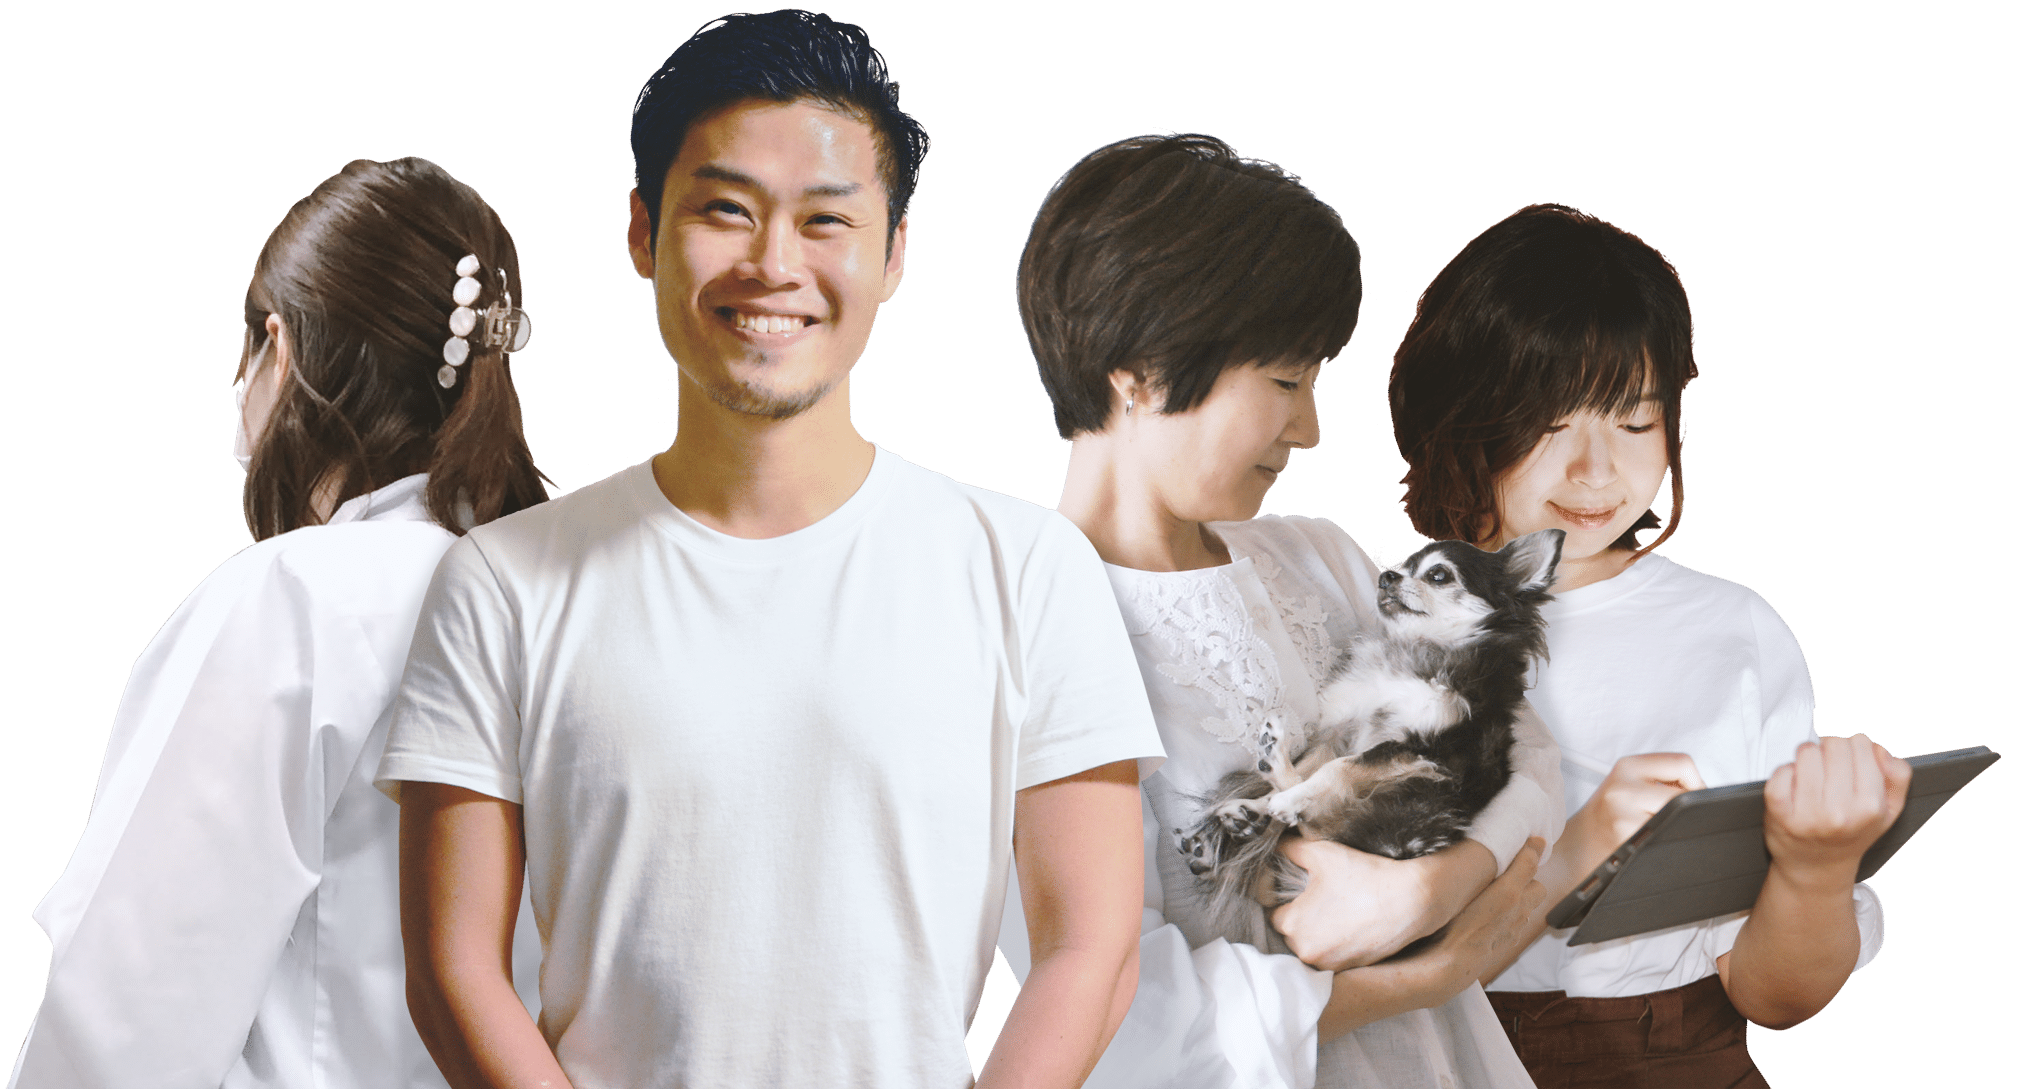
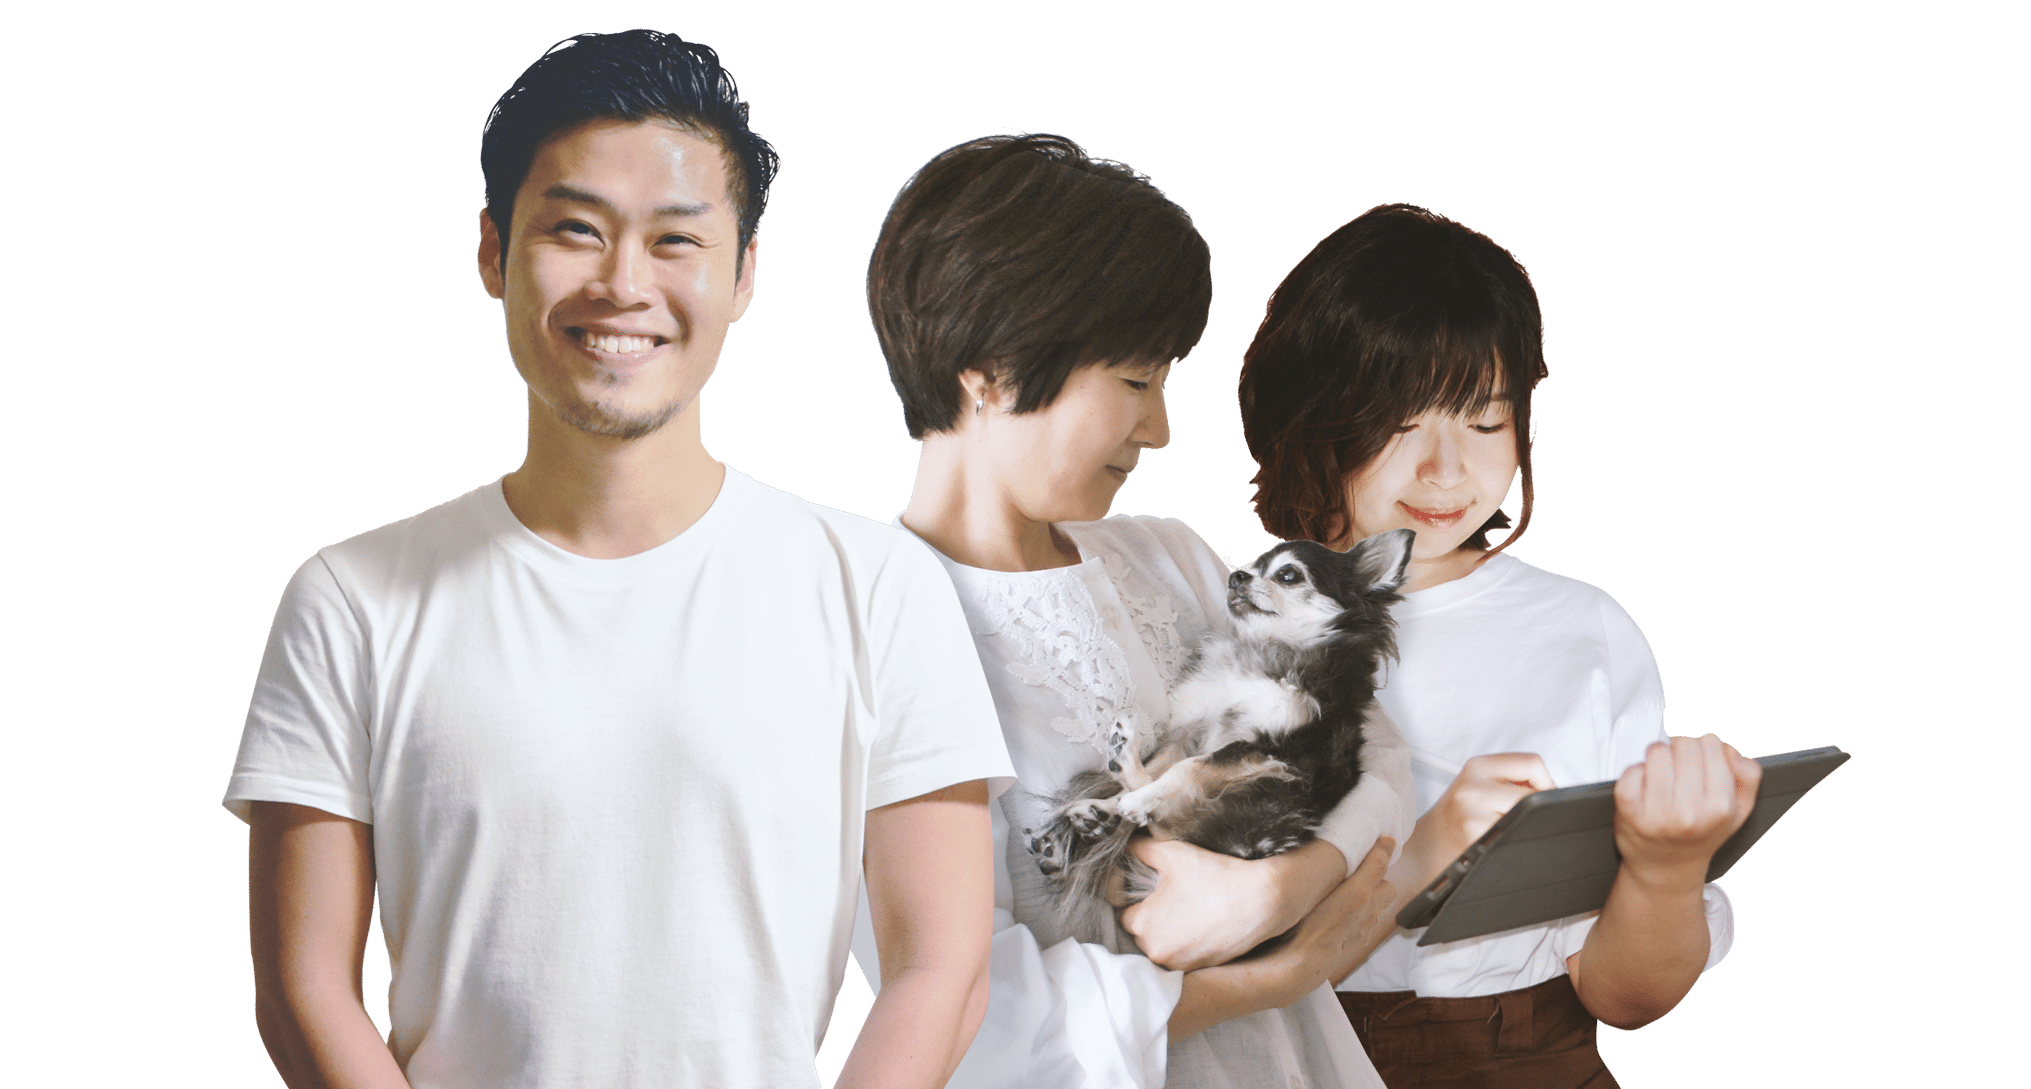
.

diff --git a/member/index.html b/member/index.html
@@ -1,1 +1,1 @@
-<!doctype html><html lang="jp"><head><meta charset="UTF-8"><meta name="viewport" content="width=device-width,user-scalable=yes,initial-scale=1,minimum-scale=1"><meta name="description" content="ペットのDNAサンプル保管、先行予約始まりました。世界初、ペットロス解決の新たな選択肢。性格、見た目、全ての情報の根源であるDNAを植物の種に導入。唯一無二、世界で1つの種が届きます。「また、可愛がれる」そんな体験をご提供。"><link rel="stylesheet" href="https://use.typekit.net/kcf7zam.css"><title>Grief care Tech株式会社</title><link rel="icon" href="../favicon.ico"><link href="../css/app.css" rel="stylesheet"></head><body><div class="navbar-container"><div class="custom-wrapper pure-g" id="navbar"><div class="pure-u-1 pure-u-lg-1-4"><div class="pure-menu"><a class="pure-menu-heading custom-brand" href="../index.html">Greif care Tech</a><a class="custom-toggle" id="toggle" href="#"><s class="bar"></s><s class="bar"></s></a></div></div><div class="pure-u-1 pure-u-lg-3-4"><div class="pure-menu pure-menu-horizontal custom-menu-3 custom-can-transform"><ul class="pure-menu-list"><li class="pure-menu-item"><a class="pure-menu-link" href="/company/index.html">会社情報</a></li><li class="pure-menu-item"><a class="pure-menu-link" href="/service/index.html">サービス</a></li><li class="pure-menu-item"><a class="pure-menu-link" href="/member/index.html">メンバー</a></li><li class="pure-menu-item"><a class="pure-menu-link" href="https://forms.gle/oxt3NvuymeTbCXJP6" target="_blank">お問い合わせ</a></li></ul></div></div></div></div><div class="fake-nav"></div><main class="child"><div class="wrap kv-child"><h1>メンバー</h1><div class="kv-img-wrap"><div class="kv-img kv-member"></div></div></div><div class="stripe"></div><div class="member-item pure-g"><div class="member-image pure-u-1 pure-u-lg-2-5"><img src="../images/content/member-ik.png" alt=""></div><div class="member-text pure-u-1 pure-u-lg-3-5"><p class="member-position">代表取締役</p><p class="member-name">池田賢一</p><p class="member-description">立教大学観光学部卒業後に旅行系ベンチャー企業を設立。<br>一部上場企業に事業売却。<br>売却先で2年間勤務後、ベンチャーキャピタルに転職。<br>2020年8月27日、30歳の節目で株式会社Grief care Techを設立。<br><br>過去の原体験と供養方法への違和感、<br>そして偶然の会話から、<br>Yuishu事業アイデアに辿り着く。</p></div></div><div class="member-item pure-g"><div class="member-image pure-u-1 pure-u-lg-2-5"><img src="../images/content/member-ne.png" alt=""></div><div class="member-text pure-u-1 pure-u-lg-3-5"><p class="member-position">プロダクトデザイナー</p><p class="member-name">中井英理</p><p class="member-description">大手自動車メーカーでのデザイナー、専門学校講師の経験を経て、<br>偶然かつ必然の出会いを経てYuishu事業に参画。<br>老犬チワワの介護と在宅勤務の両立を目指す。<br>メンバーで最もペルソナに近い立場。<br>2020年8月に17歳を看取り、いまはてんかん持ちの16歳と暮らす。</p></div></div><div class="member-item pure-g"><div class="member-image pure-u-1 pure-u-lg-2-5"><img src="../images/content/member-ts.png" alt=""></div><div class="member-text pure-u-1 pure-u-lg-3-5"><p class="member-position">技術アドバイザー</p><p class="member-name">遺伝子お姉さん</p><p class="member-description">東京農工大学大学院を修了。<br>動物用医薬品の研究開発職に従事。ペットや産業用動物の薬の開発に携わりながら、ペット産業について学ぶ。<br>ヒト用の医薬品の製造開発を行っている会社の研究職に転職。<br>シンガポールで子会社の立ち上げに携わる。<br>帰国後、新規事業立ち上げに携わり、その勉強過程でYuishu事業アイデアと出会う。</p></div></div><div class="member-item pure-g"><div class="member-image pure-u-1 pure-u-lg-2-5"><img src="../images/content/member-tm.png" alt=""></div><div class="member-text pure-u-1 pure-u-lg-3-5"><p class="member-position">グラフィックデザイナー</p><p class="member-name">てい</p><p class="member-description">2013年に中国から来日。<br>デザイン専門学校卒業後、Web事業会社でUIデザイン業務に従事。<br>幼い頃から猫と過ごしてきたため、Yuishu事業に興味を持つ。<br>今でも中国の実家にガンと闘っている15歳のねこがおり、<br>日本の我が家にも現在FIPと闘っている1歳未満の猫がいる。</p></div></div></main><footer><div class="pure-g bottom-info info-div"><div class="pure-u-1 pure-u-lg-1-2"><ul><li><a href="/company/index.html">会社情報</a></li><li><a href="/service/index.html">サービス</a></li><li><a href="/member/index.html">メンバー</a></li><li><a class="before-icon-new-windows" href="https://forms.gle/oxt3NvuymeTbCXJP6" target="_blank">お問い合わせ</a></li></ul></div><div class="pure-u-1 pure-u-lg-1-2"><ul><li><p class="title">オフィス</p><p>〒101-0052<br>東京都千代田区神田小川町3丁目28番5号 axle御茶ノ水 2階</p><br><p>JR御茶ノ水駅　御茶ノ水橋口より徒歩8分<br>メトロ千代田線「新御茶ノ水駅」B3b口より徒歩3分<br>メトロ丸の内線「小川町駅」B3b口より徒歩3分<br>メトロ半蔵門線・都営三田線「神保町駅」A5口より徒歩7分</p></li><li><p class="title">郵送宛先</p><p>〒141-0031<br>東京都品川区西五反田5丁目26番3号スマータス不動前409<br>Grief care Tech株式会社</p></li></ul></div></div><div class="bottom-copy">© Greif care Tech Inc.</div></footer><script src="../js/app.js"></script></body></html>
+<!doctype html><html lang="jp"><head><meta charset="UTF-8"><meta name="viewport" content="width=device-width,user-scalable=yes,initial-scale=1,minimum-scale=1"><meta name="description" content="ペットのDNAサンプル保管、先行予約始まりました。世界初、ペットロス解決の新たな選択肢。性格、見た目、全ての情報の根源であるDNAを植物の種に導入。唯一無二、世界で1つの種が届きます。「また、可愛がれる」そんな体験をご提供。"><link rel="stylesheet" href="https://use.typekit.net/kcf7zam.css"><title>Grief care Tech株式会社</title><link rel="icon" href="../favicon.ico"><link href="../css/app.css" rel="stylesheet"></head><body><div class="navbar-container"><div class="custom-wrapper pure-g" id="navbar"><div class="pure-u-1 pure-u-lg-1-4"><div class="pure-menu"><a class="pure-menu-heading custom-brand" href="../index.html">Greif care Tech</a><a class="custom-toggle" id="toggle" href="#"><s class="bar"></s><s class="bar"></s></a></div></div><div class="pure-u-1 pure-u-lg-3-4"><div class="pure-menu pure-menu-horizontal custom-menu-3 custom-can-transform"><ul class="pure-menu-list"><li class="pure-menu-item"><a class="pure-menu-link" href="/company/index.html">会社情報</a></li><li class="pure-menu-item"><a class="pure-menu-link" href="/service/index.html">サービス</a></li><li class="pure-menu-item"><a class="pure-menu-link" href="/member/index.html">メンバー</a></li><li class="pure-menu-item"><a class="pure-menu-link" href="https://forms.gle/oxt3NvuymeTbCXJP6" target="_blank">お問い合わせ</a></li></ul></div></div></div></div><div class="fake-nav"></div><main class="child"><div class="wrap kv-child"><h1>メンバー</h1><div class="kv-img-wrap"><div class="kv-img kv-member"></div></div></div><div class="stripe"></div><div class="member-item pure-g"><div class="member-image pure-u-1 pure-u-lg-2-5"><img src="../images/content/member-ik.png" alt=""></div><div class="member-text pure-u-1 pure-u-lg-3-5"><p class="member-position">代表取締役</p><p class="member-name">池田賢一</p><p class="member-description">立教大学観光学部卒業後に旅行系ベンチャー企業を設立。<br>一部上場企業に事業売却。<br>売却先で2年間勤務後、ベンチャーキャピタルに転職。<br>2020年8月27日、30歳の節目で株式会社Grief care Techを設立。<br><br>過去の原体験と供養方法への違和感、<br>そして偶然の会話から、<br>Yuishu事業アイデアに辿り着く。</p></div></div><div class="member-item pure-g"><div class="member-image pure-u-1 pure-u-lg-2-5"><img src="../images/content/member-ne.png" alt=""></div><div class="member-text pure-u-1 pure-u-lg-3-5"><p class="member-position">プロダクトデザイナー</p><p class="member-name">中井英理</p><p class="member-description">大手自動車メーカーでのデザイナー、専門学校講師の経験を経て、<br>偶然かつ必然の出会いを経てYuishu事業に参画。<br>老犬チワワの介護と在宅勤務の両立を目指す。<br>メンバーで最もペルソナに近い立場。<br>2020年8月に17歳を看取り、いまはてんかん持ちの16歳と暮らす。</p></div></div><div class="member-item pure-g"><div class="member-image pure-u-1 pure-u-lg-2-5"><img src="../images/content/member-tm.png" alt=""></div><div class="member-text pure-u-1 pure-u-lg-3-5"><p class="member-position">グラフィックデザイナー</p><p class="member-name">WT.Ding</p><p class="member-description">2013年に中国から来日。<br>デザイン専門学校卒業後、Web事業会社でUIデザイン業務に従事。<br>幼い頃から猫と過ごしてきたため、Yuishu事業に興味を持つ。<br>今でも中国の実家にガンと闘っている15歳のねこがおり、<br>日本の我が家にも現在FIPと闘っている1歳未満の猫がいる。</p></div></div></main><footer><div class="pure-g bottom-info info-div"><div class="pure-u-1 pure-u-lg-1-2"><ul><li><a href="/company/index.html">会社情報</a></li><li><a href="/service/index.html">サービス</a></li><li><a href="/member/index.html">メンバー</a></li><li><a class="before-icon-new-windows" href="https://forms.gle/oxt3NvuymeTbCXJP6" target="_blank">お問い合わせ</a></li></ul></div><div class="pure-u-1 pure-u-lg-1-2"><ul><li><p class="title">オフィス</p><p>〒101-0052<br>東京都千代田区神田小川町3丁目28番5号 axle御茶ノ水 2階</p><br><p>JR御茶ノ水駅　御茶ノ水橋口より徒歩8分<br>メトロ千代田線「新御茶ノ水駅」B3b口より徒歩3分<br>メトロ丸の内線「小川町駅」B3b口より徒歩3分<br>メトロ半蔵門線・都営三田線「神保町駅」A5口より徒歩7分</p></li><li><p class="title">郵送宛先</p><p>〒141-0031<br>東京都品川区西五反田5丁目26番3号スマータス不動前409<br>Grief care Tech株式会社</p></li></ul></div></div><div class="bottom-copy">© Greif care Tech Inc.</div></footer><script src="../js/app.js"></script></body></html>
